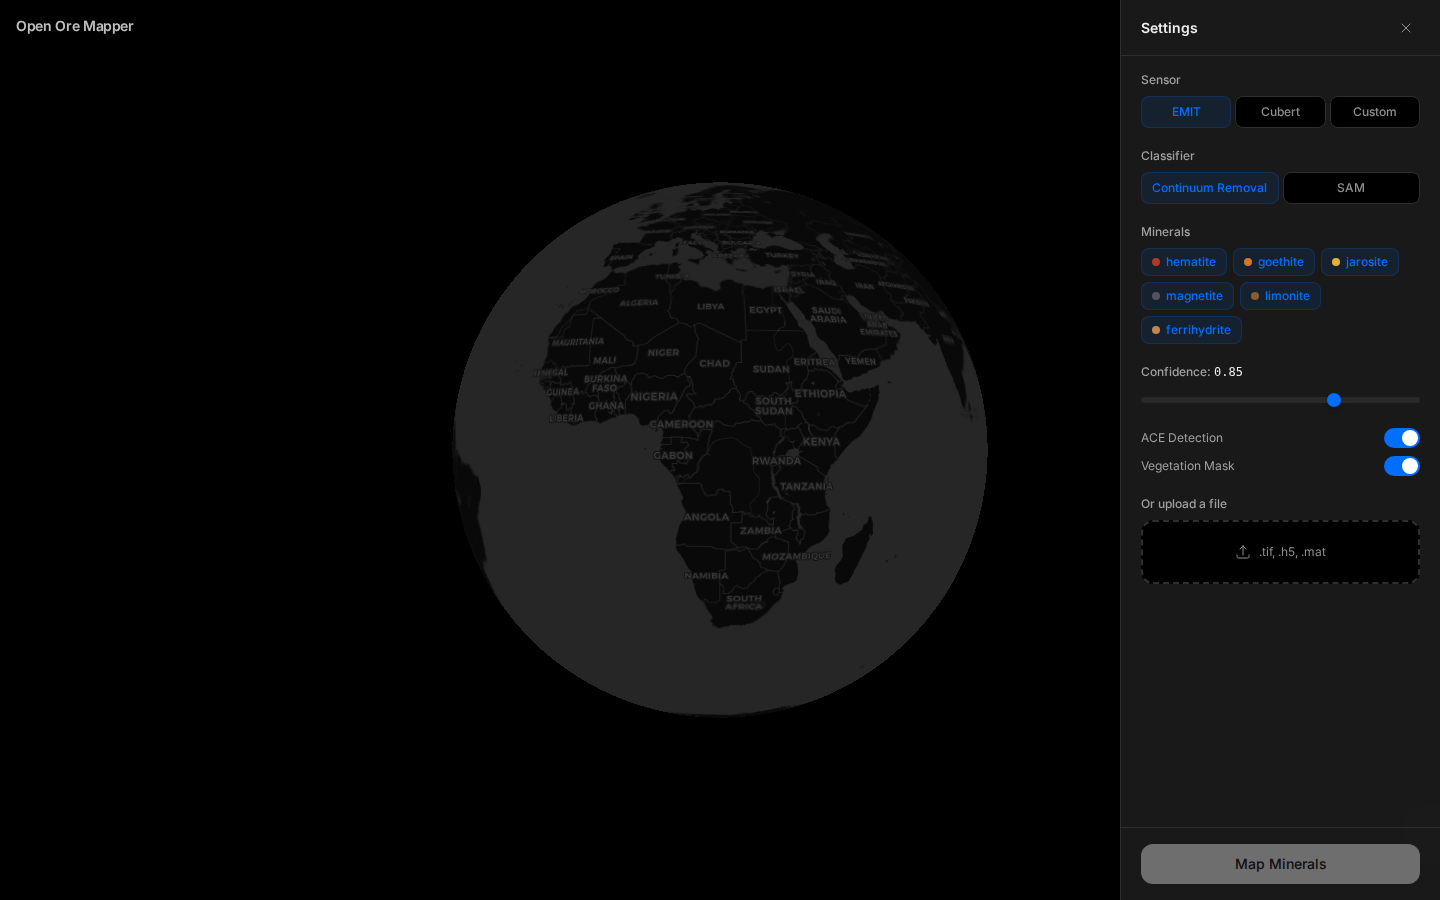
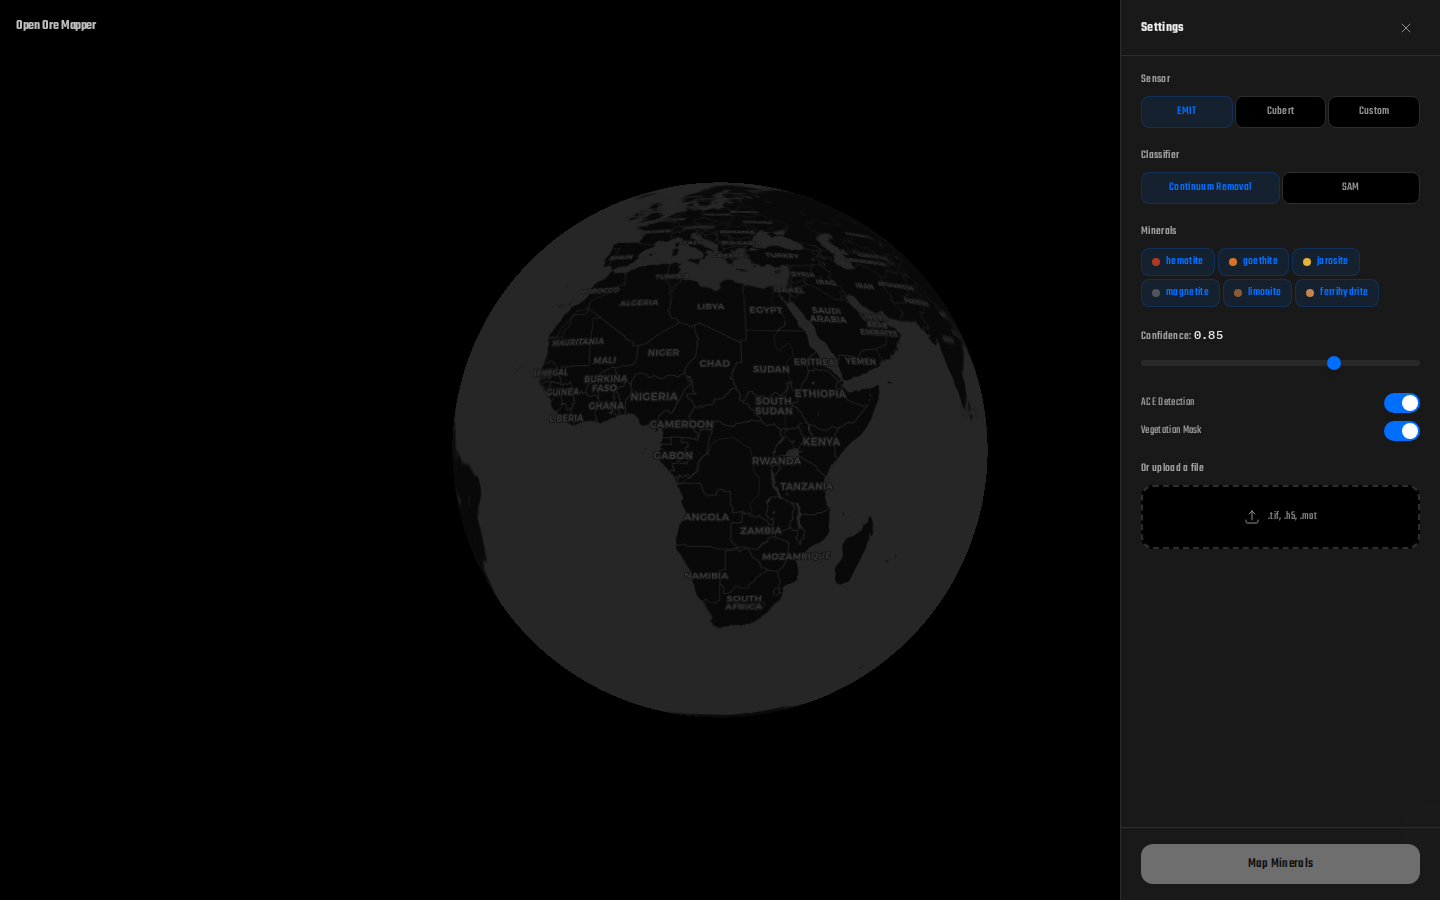
Refine frontend typography and key spacing

diff --git a/frontend/src/styles/globals.css b/frontend/src/styles/globals.css
@@ -45,9 +45,9 @@
   --color-red: #f13242;
   --color-red-soft: #f1324218;
 
-  /* Geist type: sans for UI, mono for data */
-  --font-sans: "Inter", -apple-system, BlinkMacSystemFont, "Segoe UI", sans-serif;
-  --font-mono: "SF Mono", "Fira Code", "Fira Mono", monospace;
+  /* Teko for interface text, IBM Plex Mono for data and keycaps. */
+  --font-sans: "Teko", "Inter", -apple-system, BlinkMacSystemFont, "Segoe UI", sans-serif;
+  --font-mono: "IBM Plex Mono", "SF Mono", "Fira Code", "Fira Mono", monospace;
 
   /* Heading token */
   --text-heading-32: 32px;
@@ -72,6 +72,8 @@ html, body, #root {
   background: var(--color-bg-0);
   color: var(--color-text-primary);
   font-family: var(--font-sans);
+  line-height: 1.4;
+  letter-spacing: 0.02em;
   -webkit-font-smoothing: antialiased;
   -moz-osx-font-smoothing: grayscale;
 }
@@ -83,6 +85,24 @@ html, body, #root {
 :focus-visible {
   box-shadow: 0 0 0 2px var(--color-bg-0), 0 0 0 4px var(--color-accent-hover);
   outline: none;
+}
+
+.keycap {
+  display: inline-flex;
+  align-items: center;
+  justify-content: center;
+  min-width: 28px;
+  height: 20px;
+  padding: 0 6px;
+  font-family: var(--font-mono);
+  font-size: 11px;
+  line-height: 1;
+  color: var(--color-accent);
+  background: var(--color-accent-soft);
+  border: 1px solid var(--color-accent);
+  border-radius: 4px;
+  box-shadow: 0 2px 0 color-mix(in srgb, var(--color-accent) 45%, transparent);
+  letter-spacing: 0;
 }
 
 ::-webkit-scrollbar { width: 6px; height: 6px; }

diff --git a/frontend/src/components/map/SettingsPanel.tsx b/frontend/src/components/map/SettingsPanel.tsx
@@ -101,7 +101,7 @@ export function SettingsPanel({
           {/* Sensor */}
           <section>
             <label className="text-xs font-medium text-text-secondary mb-2 block">Sensor</label>
-            <div className="flex gap-1">
+            <div className="flex gap-0.5">
               {SENSORS.map((s) => (
                 <button
                   key={s}
@@ -121,7 +121,7 @@ export function SettingsPanel({
           {/* Classifier */}
           <section>
             <label className="text-xs font-medium text-text-secondary mb-2 block">Classifier</label>
-            <div className="flex gap-1">
+            <div className="flex gap-0.5">
               {CLASSIFIERS.map((c) => (
                 <button
                   key={c}
@@ -141,7 +141,7 @@ export function SettingsPanel({
           {/* Minerals */}
           <section>
             <label className="text-xs font-medium text-text-secondary mb-2 block">Minerals</label>
-            <div className="flex flex-wrap gap-1.5">
+            <div className="flex flex-wrap gap-[3px]">
               {ALL_MINERALS.map((m, i) => (
                 <button
                   key={m}

diff --git a/frontend/index.html b/frontend/index.html
@@ -6,7 +6,7 @@
     <title>Open Ore Mapper</title>
     <link rel="preconnect" href="https://fonts.googleapis.com" />
     <link rel="preconnect" href="https://fonts.gstatic.com" crossorigin />
-    <link href="https://fonts.googleapis.com/css2?family=Inter:wght@400;450;500;600;700&display=swap" rel="stylesheet" />
+    <link href="https://fonts.googleapis.com/css2?family=Teko:wght@400;500;600;700&family=IBM+Plex+Mono:wght@400;500;600;700&display=swap" rel="stylesheet" />
   </head>
   <body>
     <div id="root"></div>

diff --git a/frontend/src/pages/Home.tsx b/frontend/src/pages/Home.tsx
@@ -142,7 +142,7 @@ export function Home() {
         <div data-wt="cue" className="absolute bottom-6 left-1/2 -translate-x-1/2 z-10 pointer-events-none animate-[fade-in_400ms_ease-out]">
           <div className="bg-bg-1/80 backdrop-blur-sm border border-border-default rounded-lg px-4 py-2 shadow-lg">
             <p className="text-xs text-text-tertiary whitespace-nowrap">
-              <kbd className="font-mono text-accent text-[11px]">Shift</kbd>
+              <kbd className="keycap">Shift</kbd>
               {" + drag to select an area of interest"}
             </p>
           </div>